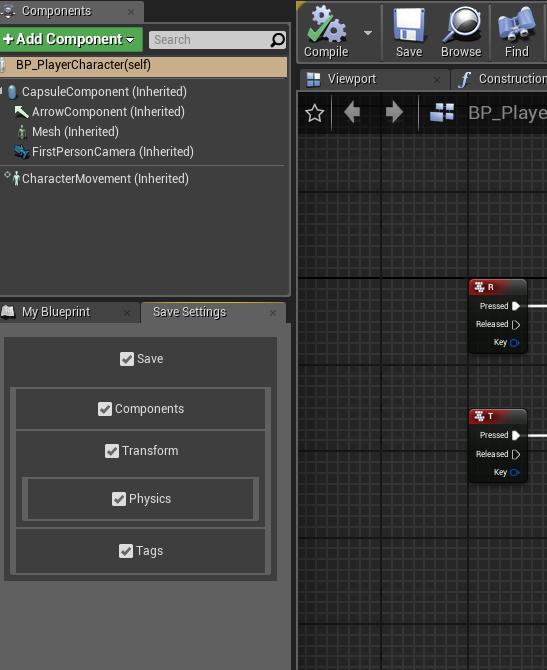
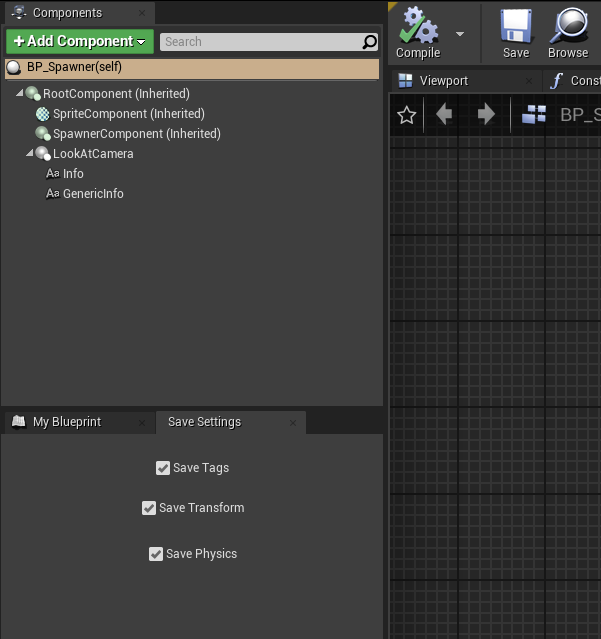
[DOCS] Finished docs for 1.4
Documented filters and actor settings

diff --git a/Docs/quick-start/presets.md b/Docs/quick-start/presets.md
@@ -23,15 +23,17 @@ Then we assign our preset class we want to use in **Preset**.
 
 #### In Blueprints
 
-The preset can also be changed from blueprints in runtime calling:
+The preset can also be changed from blueprints in runtime by calling:
 
 ![Set Active Preset](img/set-preset-bp.png)
 
 ## Settings
 
-![INSERT DETAILS SCREENSHOT HERE]()
+![Preset Details](img/preset-details.png)
 
-?> All settings have defined tooltips describing what they are used for. Check them moving your mouse over the property.
+?> All settings have **tooltips** describing what they are used for. Check them by moving your mouse over the property.
+
+A brief overview of the settings available:
 
 * **Gameplay**: Configures the runtime behavior of the plugin. Debug settings are also inside Gameplay. [Check Saving & Loading](saving&loading.md)
 * **Serialization**: Toggle what to save from the world.
@@ -41,4 +43,22 @@ The preset can also be changed from blueprints in runtime calling:
 
 ## Filters
 
-TODO
+Filters allow us to select which classes will be saved and which classes won't.
+This applies to actors and components and can be edited from the Preset.
+
+### Allowing classes
+
+If a class is added to a filter, that class and all its children will be allowed, meaning they will be considered for saving, their properties will be saved, etc.
+
+![Class allowed](img/filter_class_allowed.png)
+
+*In the image: We allow Character, so all children character classes will be saved.*
+
+### Rejected classes
+
+We can also reject classes from a filter, meaning they wont be considered for saving.
+?> Only children classes of allowed classes will be allowed to be rejected.
+
+![Rejected class](img/filter_class_rejected.png)
+
+*In the image: We reject TutorialCharacter from the previous image, essentially saving all characters except TutorialCharacters.*

diff --git a/Docs/resources/slots.md b/Docs/resources/slots.md
@@ -1,22 +1,23 @@
 # Slots
 
-In Save Extension, we refer to "slots" as an **instance of a saved game** and they are identified by a number.
-Most of the times we will think of slots as the actual saved files.
+In Save Extension, we refer to "slots" as an **instance of a saved game**. They can either be identified by a name or a number.
 
 ## Slots as files
 
-An slot is composed of two individual files. One is the slot info, and the other the slot data.
+Slots are saved into a single file named after the slot name.
+
+To avoid having to load all save files entirely when, for example, displaying a list of slots in a menu, data is stored in two sections:
 
 ### Slot Info
 
 Contains **lightweight** information about the saved game. Information we want to obtain without needing to load the rest of the slot.
 Some examples are player level, xp, progress, player name, zone or area, current objective or thumbnail.
 
-The game can access all slot infos very quickly without requiring to load game, which is very useful for UI when we want to display a list of all saved games.
+The game can access all slot infos very quickly without requiring to load the rest of the data.
 
 ### Slot Data
 
-It is here were all heavy data is contained!
+The bulk of any saved game.
 All information serialized from actors and components is stored in the Slot Data, as well as any other data the game may need.
 
 All levels, players, AIs and game systems configured to be saved are contained here.

diff --git a/Docs/_sidebar.md b/Docs/_sidebar.md
@@ -1,17 +1,14 @@
 - [Introduction](/?id=save-extension)
-
 - Quick Start
   - [Installation](quick-start/installation.md)
   - [First Steps](quick-start/first-steps.md)
   - [Presets](quick-start/presets.md)
-  - [Filters](quick-start/filters.md)
-  - [Slots](quick-start/slots.md)
 - Resources
+  - [Actor Settings](resources/actor-settings.md)
+  - [Slots](resources/slots.md)
   - [Multithreading](resources/multithreading.md)
-  - [Configuration](resources/configuration.md)
   - [Level Streaming](resources/level-streaming.md)
   - [Lifetime Components](resources/lifetime-components.md)
   - [Saving Process](resources/saving-process.md)
   - [Loading Process](resources/loading-process.md)
-
 - [Credits](credits.md)

diff --git a/Docs/resources/actor-settings.md b/Docs/resources/actor-settings.md
@@ -1,0 +1,15 @@
+# Actor Settings
+
+---
+
+Each actor blueprint can have its own configuration which is edited directly inside the blueprint:
+![Open actor settings](./img/actor_settings.png ':size=450')
+
+This settings get translated into actor tags so they can also be added in C++.
+
+- **Tags**: Should save actor tags?
+- **Transform**: Should save position, rotation and scale of this actor?
+  - **Physics**: Should physics be saved? **Transform** is required to be enabled to save physics.
+
+!> If you can't see *"Save Settings"* window opened it can be manually opened from **Window -> Save Settings**<br>
+![Open actor settings](./img/open_actor_settings.png ':size=300')
